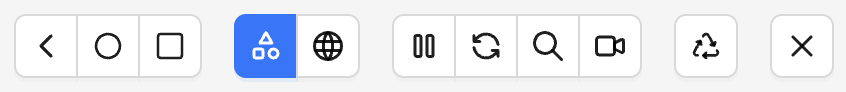
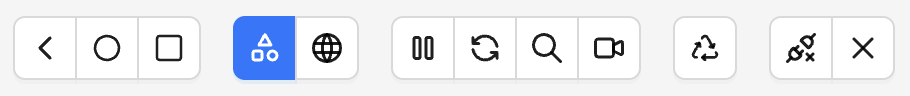
feat: add button to detach from session without termination (#2641)
* feat: add button to detach from session without termination

* docs: add docs for detach button

* address copilot comment

* docs: add emphasis that the session is retained

diff --git a/app/common/renderer/components/SessionInspector/SessionInspector.jsx b/app/common/renderer/components/SessionInspector/SessionInspector.jsx
@@ -188,9 +188,9 @@ const Inspector = (props) => {
     applyClientMethod({methodName: 'getPageSource'});
   };
 
-  const quitCurrentSession = useCallback(
-    async (reason, killedByUser = true) => {
-      await quitSession(reason, killedByUser);
+  const quitSessionAndReturn = useCallback(
+    async ({reason, manualQuit = true, detachOnly = false} = {}) => {
+      await quitSession({reason, manualQuit, detachOnly});
       navigate('/session', {replace: true});
     },
     [navigate, quitSession],
@@ -245,7 +245,7 @@ const Inspector = (props) => {
       // Create timeout only once while prompt is visible
       if (!sessionExpiryTimeoutRef.current) {
         sessionExpiryTimeoutRef.current = setTimeout(() => {
-          quitCurrentSession(t('Session closed due to inactivity'), false);
+          quitSessionAndReturn({reason: t('Session closed due to inactivity'), manualQuit: false});
         }, SESSION_EXPIRY_PROMPT_TIMEOUT);
         setUserWaitTimeout(sessionExpiryTimeoutRef.current);
       }
@@ -255,7 +255,7 @@ const Inspector = (props) => {
       sessionExpiryTimeoutRef.current = null;
       setUserWaitTimeout(null);
     }
-  }, [quitCurrentSession, setUserWaitTimeout, showKeepAlivePrompt, t]);
+  }, [quitSessionAndReturn, setUserWaitTimeout, showKeepAlivePrompt, t]);
 
   const screenShotControls = (
     <div className={styles.screenshotControls}>
@@ -379,13 +379,13 @@ const Inspector = (props) => {
 
   return (
     <div className={styles.inspectorContainer}>
-      <HeaderButtons quitCurrentSession={quitCurrentSession} {...props} />
+      <HeaderButtons quitSessionAndReturn={quitSessionAndReturn} {...props} />
       {main}
       <Modal
         title={t('Session Inactive')}
         open={showKeepAlivePrompt}
         onOk={() => keepSessionAlive()}
-        onCancel={() => quitCurrentSession()}
+        onCancel={() => quitSessionAndReturn()}
         okText={t('Keep Session Running')}
         cancelText={t('Quit Session')}
       >

diff --git a/app/common/renderer/components/SessionInspector/Header/HeaderButtons.jsx b/app/common/renderer/components/SessionInspector/Header/HeaderButtons.jsx
@@ -7,6 +7,7 @@ import {
   IconMessageChatbot,
   IconPlayerPause,
   IconPlayerPlay,
+  IconPlugConnectedX,
   IconRecycle,
   IconRefresh,
   IconSearch,
@@ -38,7 +39,7 @@ const HeaderButtons = (props) => {
     showLocatorTestModal,
     showSiriCommandModal,
     applyClientMethod,
-    quitCurrentSession,
+    quitSessionAndReturn,
     driver,
     contexts,
     currentContext,
@@ -231,10 +232,19 @@ const HeaderButtons = (props) => {
     </Space.Compact>
   );
 
-  const quitSessionButton = (
-    <Tooltip title={t('Quit Session')}>
-      <Button id="btnClose" icon={<IconX size={18} />} onClick={quitCurrentSession} />
-    </Tooltip>
+  const quitControls = (
+    <Space.Compact>
+      <Tooltip title={t('detachFromSession')}>
+        <Button
+          id="btnDetach"
+          icon={<IconPlugConnectedX size={18} />}
+          onClick={() => quitSessionAndReturn({detachOnly: true})}
+        />
+      </Tooltip>
+      <Tooltip title={t('Quit Session')}>
+        <Button id="btnClose" icon={<IconX size={18} />} onClick={quitSessionAndReturn} />
+      </Tooltip>
+    </Space.Compact>
   );
 
   const sessionReloadButton = (
@@ -255,7 +265,7 @@ const HeaderButtons = (props) => {
         {appModeControls}
         {generalControls}
         {sessionReloadButton}
-        {quitSessionButton}
+        {quitControls}
       </Space>
       <Divider />
     </div>

diff --git a/app/common/renderer/actions/SessionInspector.js b/app/common/renderer/actions/SessionInspector.js
@@ -263,7 +263,7 @@ export function restartSession(error, params) {
       title: i18n.t('RestartSessionMessage'),
       duration: 3,
     });
-    const quitSes = quitSession('Window closed');
+    const quitSes = quitSession();
     const newSes = newSession(getState().builder.caps);
     const getPageSrc = applyClientMethod({methodName: 'getPageSource'});
     const storeSessionSet = storeSessionSettings();
@@ -298,14 +298,16 @@ export function setExpandedPaths(paths) {
 /**
  * Quit the session and go back to the new session window
  */
-export function quitSession(reason, killedByUser = true) {
+export function quitSession({reason, manualQuit = true, detachOnly = false} = {}) {
   return async (dispatch, getState) => {
     const killAction = killKeepAliveLoop();
     killAction(dispatch, getState);
-    const applyAction = applyClientMethod({methodName: 'deleteSession'});
-    await applyAction(dispatch, getState);
+    if (!detachOnly) {
+      const applyAction = applyClientMethod({methodName: 'deleteSession'});
+      await applyAction(dispatch, getState);
+    }
     dispatch({type: QUIT_SESSION_DONE});
-    if (!killedByUser) {
+    if (!manualQuit) {
       showError(new Error(reason || i18n.t('Session has been terminated')), {secs: 0});
     }
   };

diff --git a/app/common/renderer/actions/SessionBuilder.js b/app/common/renderer/actions/SessionBuilder.js
@@ -991,7 +991,7 @@ export function bindWindowClose() {
       let {driver} = getState().inspector;
       if (driver) {
         try {
-          const action = quitSession('Window closed');
+          const action = quitSession();
           await action(dispatch, getState);
         } finally {
           driver = null;

diff --git a/docs/session-inspector/header.md b/docs/session-inspector/header.md
@@ -129,8 +129,18 @@ session (selecting an element, interacting with the screenshot, searching for el
 that returns a failed response. Since such a response is not guaranteed to be caused by a
 disconnected device, this functionality is disabled by default.
 
+## Detach from Session
+
+![Detach Button](./assets/images/header/detach-button.png)
+
+This button disconnects the Inspector from the active session and returns to the
+[Session Builder](../session-builder/index.md), but the session itself ^^is not deleted^^, and
+^^remains running^^ on the Appium server. This approach may be useful if you are attaching to an
+existing session mid-test and want to resume the test afterwards, or if you want to reuse the
+session later.
+
 ## Quit Session
 
 ![Quit Button](./assets/images/header/quit-button.png)
 
-This button quits the Inspector session and returns to the [Session Builder](../session-builder/index.md).
+This button deletes the active session and returns to the Session Builder.
